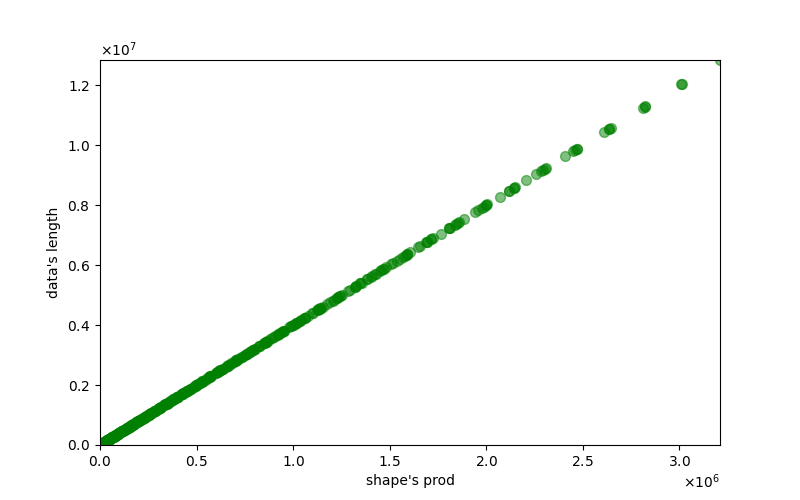
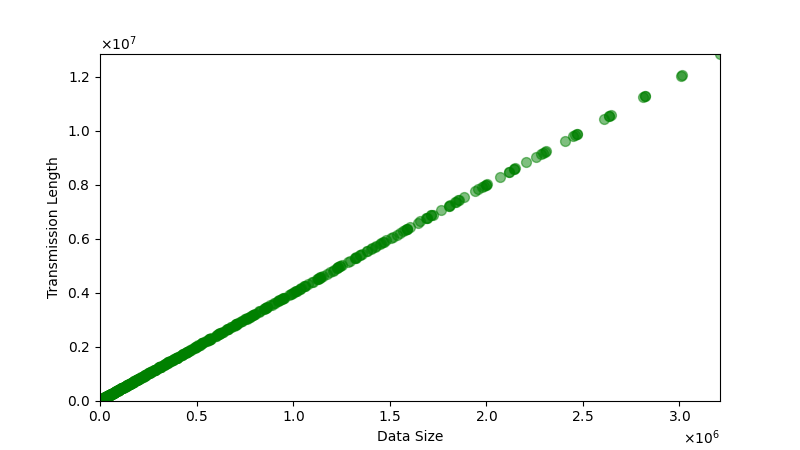
compare transport latency img

diff --git a/毕设3_中间变量传输/05_transport_prediction.py b/毕设3_中间变量传输/05_transport_prediction.py
@@ -18,6 +18,7 @@ def alexNetPrediction():
     print(lin_reg.predict(X))
     """
     true_time = [119.166,148.398,35.81,105.005,28.324,41.525,35.808,54.218,17.055,8.159,11.091,6.177,6.047,0.18]
+    transport_time_list = []
 
     # 使用lin_reg计算alexnet每层的传输时延
     alexnet = a1_alexNet.AlexNet()
@@ -25,6 +26,7 @@ def alexNetPrediction():
     x = torch.rand(size=(1, 3, 224, 224))
     tranport_time = functionImg.predictTransportTime(lin_reg, x)
     print(f"{x.shape}\t\treal transport time {true_time[0]}ms\t\tpredict transport time {tranport_time:.3f} ms")
+    transport_time_list.append(tranport_time)
     print("======================================")
 
     index = 1
@@ -34,15 +36,17 @@ def alexNetPrediction():
         x = layer(x)
         tranport_time = functionImg.predictTransportTime(lin_reg, x)
         print(f"{layer}\n{x.shape}\t\treal transport time {true_time[index]}ms\t\tpredict transport time {tranport_time:.3f} ms")
+        transport_time_list.append(tranport_time)
         print("======================================")
         index += 1
+    print(transport_time_list)
 
 
 
 
 if __name__ == '__main__':
     path = "../res/transport_time.xls"
-    sheet_name = "time2"
+    sheet_name = "time1"
 
     # function.read_excel_xls(path,sheet_name)
 
@@ -50,16 +54,17 @@ if __name__ == '__main__':
     data_length = function.get_excel_data(path,sheet_name,"dumps length")
     transport_time = function.get_excel_data(path,sheet_name,"transport time(ms)")
 
-    x = np.array(data_length)
-    y = np.array(transport_time)
+    shape_size = np.array(shape_prod)
+    data_length = np.array(data_length)
+    transport_time = np.array(transport_time)
 
     # 线性回归
-    # functionImg.getScatterImg(x,y,"data's length","transport time(ms)")
+    # functionImg.getScatterImg(shape_size,data_length,"Data Size","Transmission Latency(ms)")
     # functionImg.myLinearRegression(x,y,"data's length","transport time(ms)")
 
     # modelPath = "../model/tranportTime_fast.m"
     # 多项式回归 no Ridge
-    # lin_reg = functionImg.myPolynomialRegression(x,y,"data's length","transport time(ms)",save=True,modelPath=modelPath)
+    # lin_reg = functionImg.myPolynomialRegression(shape_size,transport_time,"Data Size","Transmission Latency(ms)")
     # print(lin_reg.coef_)
 
     # 多项式回归 Ridge

diff --git a/毕设3_中间变量传输/functionImg.py b/毕设3_中间变量传输/functionImg.py
@@ -20,7 +20,7 @@ def getScatterImg(x,y,xlabel,ylabel):
     """
     s = 50
 
-    fig = plt.figure(figsize=(8, 5))
+    fig = plt.figure(figsize=(8, 4.5))
 
     plt.scatter(x, y, s, c="g", alpha=0.5)
     plt.ticklabel_format(style='sci', axis='x', scilimits=(0, 0), useMathText=True)
@@ -170,8 +170,8 @@ def myPolynomialRegression(x, y,labelx,labely,devide_n=1,save = False,modelPath 
     """
     s = 50
 
-    # X2 = myTransform(x, degree=2)
-    X2 = x
+    X2 = myTransform(x, degree=2)
+    # X2 = x
     lin_reg = LinearRegression()
     lin_reg.fit(X2, y)
 
@@ -189,10 +189,10 @@ def myPolynomialRegression(x, y,labelx,labely,devide_n=1,save = False,modelPath 
     截距参数:  6.9646173709356844
     """
     fig = plt.figure(figsize=(8, 5))
-    # plt.scatter(x, y, s, c="g", alpha=0.5)
-    # plt.scatter(x, y_predict)
-    plt.scatter(y, y_predict)
-    # plt.plot(np.sort(x), y_predict[np.argsort(x)], color='r')
+    plt.scatter(x, y, s, c="g", alpha=0.5)
+    plt.scatter(x, y_predict)
+    # plt.scatter(y, y_predict)
+    plt.plot(np.sort(x), y_predict[np.argsort(x)], color='r')
 
 
     plt.ticklabel_format(style='sci', axis='x', scilimits=(0, 0), useMathText=True)
@@ -201,10 +201,10 @@ def myPolynomialRegression(x, y,labelx,labely,devide_n=1,save = False,modelPath 
     # 设置坐标轴范围
     # n = devide_n
     # y_n = devide_n
-    # max_X = np.max(x)
-    # max_Y = np.max(y)
-    # plt.xlim((0, max_X))
-    # plt.ylim((0, max_Y))
+    max_X = np.max(x)
+    max_Y = np.max(y)
+    plt.xlim((0, max_X))
+    plt.ylim((0, max_Y))
 
     plt.xlabel(labelx)
     plt.ylabel(labely)

diff --git a/毕设3_中间变量传输/24_Transform_Time_Compare.py b/毕设3_中间变量传输/24_Transform_Time_Compare.py
@@ -22,12 +22,12 @@ if __name__ == '__main__':
     ax1.set_xticklabels(('input','conv1', 'maxPool2d1', 'conv2', 'maxPool2d2', 'conv3',
                      'conv4', 'conv5', 'maxPool2d3', 'avgPool2d', 'flatten',
                      'linear1', 'linear2', 'linear3'),rotation = -45)
-    lns1 = ax1.bar(ind - width / 2, true_time, width, label='real time')
+    lns1 = ax1.bar(ind - width / 2, true_time, width, label='Real Latency')
 
     # Add some text for labels, title and custom x-axis tick labels, etc.
     # ax.set_ylabel('Scores')
 
-    lns2 = ax1.bar(ind + width / 2, predict_time, width, color='darkblue', label='predict time')
+    lns2 = ax1.bar(ind + width / 2, predict_time, width, color='darkblue', label='Predict Latency')
 
 
     fig.legend(loc=1, bbox_to_anchor=(1,1), bbox_transform=ax1.transAxes)
